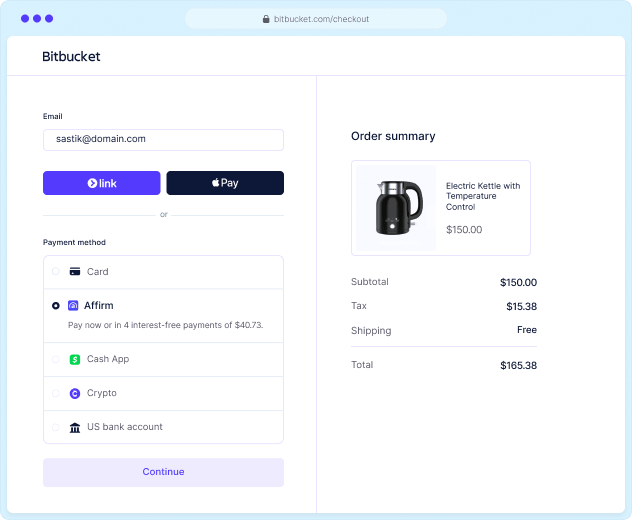
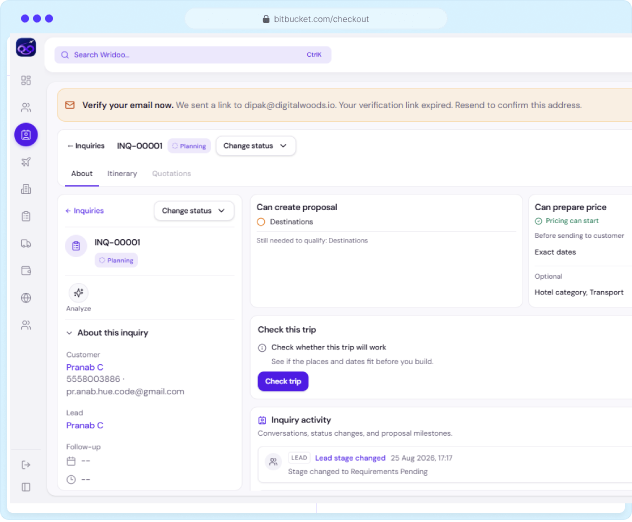
ratar last change ta

diff --git a/Wridoo/templates/home.html b/Wridoo/templates/home.html
@@ -92,19 +92,19 @@
                             </ul>
                             <div class="tab-content fs-dashboard-img-wrap" id="pills-tabContent">
                                 <div class="tab-pane fade show active" id="pills-dashboard" role="tabpanel">
-                                    <div><img src="{{ get_asset_url('../assets/img/dashboard/img01.jpg') }}" alt="Booking management CRM dashboard"></div>
+                                    <div><img src="{{ get_asset_url('../assets/img/dashboard/booking-management.png') }}" alt="Booking management CRM dashboard"></div>
                                 </div>
                                 <div class="tab-pane fade" id="pills-document" role="tabpanel">
-                                    <div><img src="{{ get_asset_url('../assets/img/dashboard/img02.jpg') }}" alt="Traveler communication & CRM setup"></div>
+                                    <div><img src="{{ get_asset_url('../assets/img/dashboard/traveler-crm.png') }}" alt="Traveler communication & CRM setup"></div>
                                 </div>
                                 <div class="tab-pane fade" id="pills-sheet" role="tabpanel">
-                                    <div><img src="{{ get_asset_url('../assets/img/dashboard/img03.jpg') }}" alt="Itineraries & tour performance insights"></div>
+                                    <div><img src="{{ get_asset_url('../assets/img/dashboard/itineraries-tours.png') }}" alt="Itineraries & tour performance insights"></div>
                                 </div>
                                 <div class="tab-pane fade" id="pills-whiteboard" role="tabpanel">
-                                    <div><img src="{{ get_asset_url('../assets/img/dashboard/img04.jpg') }}" alt="Smart routing and travel automation dashboard"></div>
+                                    <div><img src="{{ get_asset_url('../assets/img/dashboard/smart-automation.png') }}" alt="Smart routing and travel automation dashboard"></div>
                                 </div>
                                 <div class="tab-pane fade" id="pills-assistance" role="tabpanel">
-                                    <div><img src="{{ get_asset_url('../assets/img/dashboard/img05.jpg') }}" alt="AI travel assistant dashboard"></div>
+                                    <div><img src="{{ get_asset_url('../assets/img/dashboard/ai-travel-assistant.png') }}" alt="AI travel assistant dashboard"></div>
                                 </div>
                             </div>
                             <div class="xb-section-shape dashboard-shape">

diff --git a/Wridoo/modules/wridoo-dashboard.module/module.html b/Wridoo/modules/wridoo-dashboard.module/module.html
@@ -41,15 +41,15 @@
               {% if item.image.src %}
                 <img src="{{ item.image.src }}" alt="{{ item.image.alt }}">
               {% elif loop.index == 1 %}
-                <img src="https://www.bitrix24.in/upload/optimizer/converted/images/content_en/solutions/industry/travel-crm-software/img-hero.1466w.png.webp" alt="{{ item.title }}">
+                <img src="{{ get_asset_url('../../assets/img/dashboard/booking-management.png') }}" alt="{{ item.title }}">
               {% elif loop.index == 2 %}
-                <img src="https://www.bitrix24.in/upload/optimizer/converted/images/content_en/solutions/industry/travel-crm-software/img-slider-1.1344w.jpg.webp" alt="{{ item.title }}">
+                <img src="{{ get_asset_url('../../assets/img/dashboard/traveler-crm.png') }}" alt="{{ item.title }}">
               {% elif loop.index == 3 %}
-                <img src="https://www.bitrix24.in/upload/optimizer/converted/images/content_en/solutions/industry/travel-crm-software/img-slider-2.1344w.jpg.webp" alt="{{ item.title }}">
+                <img src="{{ get_asset_url('../../assets/img/dashboard/itineraries-tours.png') }}" alt="{{ item.title }}">
               {% elif loop.index == 4 %}
-                <img src="https://www.bitrix24.in/upload/optimizer/converted/images/content_en/solutions/industry/travel-crm-software/img-slider-3.1344w.jpg.webp" alt="{{ item.title }}">
+                <img src="{{ get_asset_url('../../assets/img/dashboard/smart-automation.png') }}" alt="{{ item.title }}">
               {% else %}
-                <img src="https://www.bitrix24.in/upload/optimizer/converted/images/content_en/solutions/industry/travel-crm-software/img-slider-4.1344w.jpg.webp" alt="{{ item.title }}">
+                <img src="{{ get_asset_url('../../assets/img/dashboard/ai-travel-assistant.png') }}" alt="{{ item.title }}">
               {% endif %}
             </div>
           </div>
